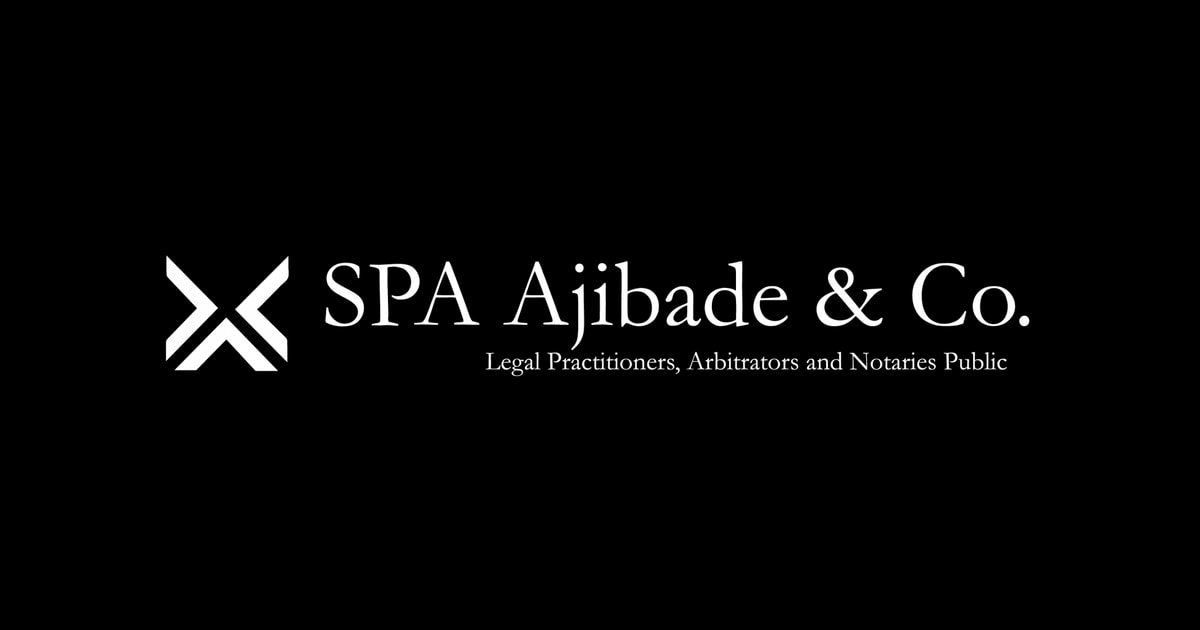
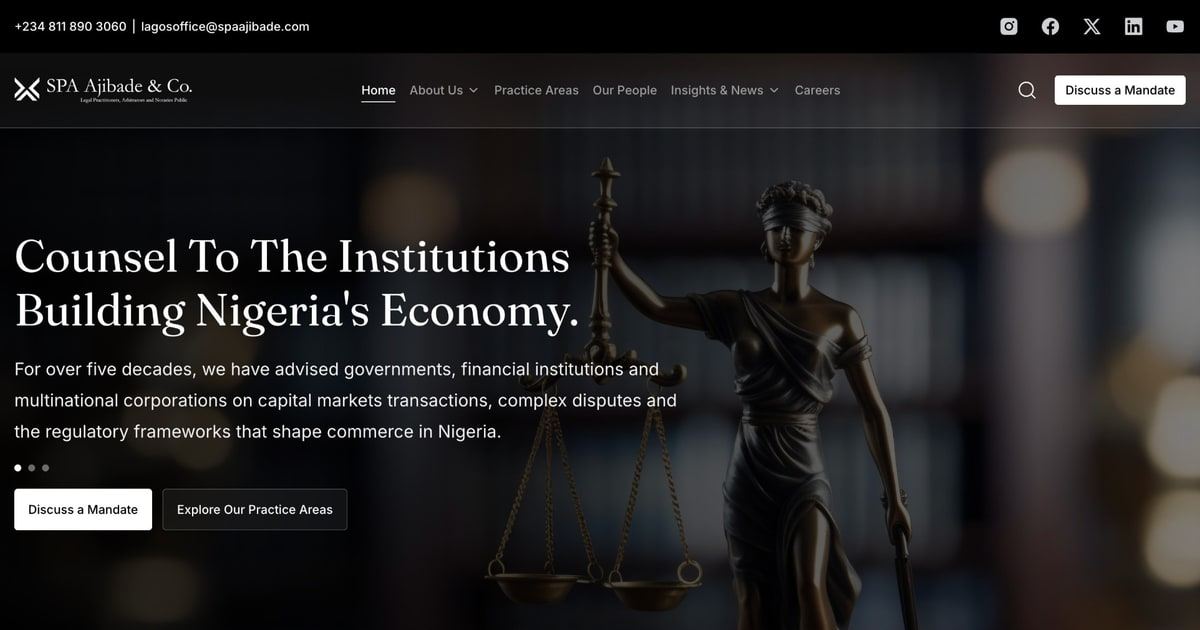
Link preview: the homepage header and hero, as the firm chose
og-image.jpg is now the firm's homepage screenshot (header, logo and hero),
cropped to 1200x630 without the strip below the hero.

diff --git a/src/lib/seo.ts b/src/lib/seo.ts
@@ -7,7 +7,7 @@ export const SITE_NAME = "S.P.A. Ajibade & Co.";
 export const SITE_DESCRIPTION =
   "Commercial law firm in Lagos, Abuja and Ibadan. Counsel to institutions shaping Nigeria's economy since 1967.";
 
-/** Link-preview image (public/og-image.jpg: the firm's logo on black) for pages whose CMS entry has none. */
+/** Link-preview image (public/og-image.jpg: the homepage header and hero) for pages whose CMS entry has none. */
 export const DEFAULT_OG_IMAGE = { url: "/og-image.jpg", width: 1200, height: 630, alt: "S.P.A. Ajibade & Co., Lagos, Abuja and Ibadan" };
 
 /** Turns a CMS seo block into Next metadata, with sensible fallbacks. */
